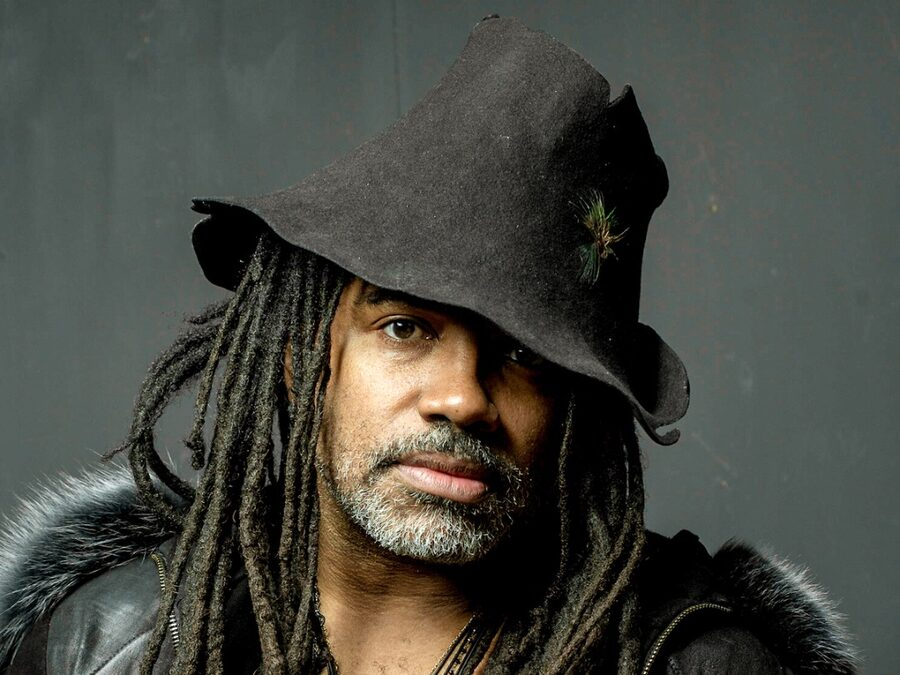
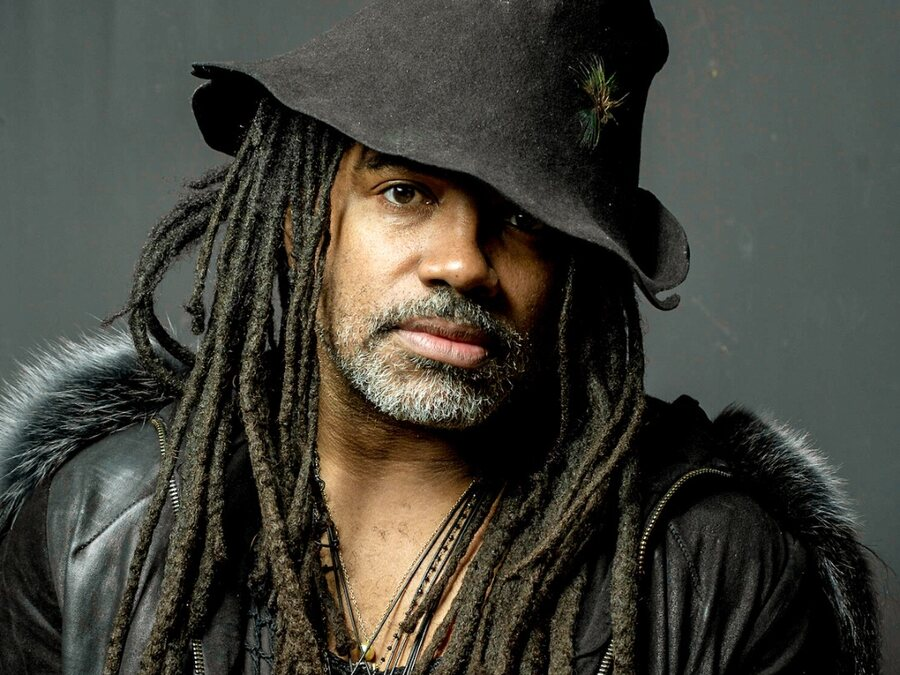
Index: re-cropped portrait cards (Castro NYC, LEE. with new portrait, Saint Fleur with Gardy St. Fleur, LEE. v2 centered)

diff --git a/index.html b/index.html
@@ -91,19 +91,19 @@
       <h2 class="section-title">Strategy</h2>
       <div class="projects">
       <a class="project" href="work/castro-nyc/">
-        <div class="frame"><img src="images/work/castro-nyc/card.jpg" width="900" height="675" loading="lazy" alt="Terry Castro"></div>
+        <div class="frame"><img src="images/work/castro-nyc/card.jpg?v=2" width="900" height="675" loading="lazy" alt="Terry Castro"></div>
         <h2>CASTRO NYC — A LEGACY, REFRAMED</h2>
         <p>Strategy / Positioning / Press</p>
       </a>
 
       <a class="project" href="work/lee/">
-        <div class="frame"><img src="images/work/lee/card.jpg" width="900" height="675" loading="lazy" alt="LEE."></div>
+        <div class="frame"><img src="images/work/lee/card.jpg?v=2" width="900" height="675" loading="lazy" alt="LEE."></div>
         <h2>LEE. — SLOWING DOWN TO BUILD AN IDENTITY</h2>
         <p>Strategy / Artist Development / Music</p>
       </a>
 
       <a class="project" href="work/saint-fleur/">
-        <div class="frame"><img src="images/work/saint-fleur/card.jpg" width="900" height="675" loading="lazy" alt="Saint Fleur"></div>
+        <div class="frame"><img src="images/work/saint-fleur/card.jpg?v=2" width="900" height="675" loading="lazy" alt="Gardy St. Fleur"></div>
         <h2>SAINT FLEUR — SOCIAL MEDIA REVIEW &amp; STRATEGY</h2>
         <p>Strategy / Social Media / Art Advisory</p>
       </a>
@@ -120,7 +120,7 @@
       </a>
 
       <a class="project" href="work/music-by-lee-v2/">
-        <div class="frame"><img src="images/work/music-by-lee-v2/card.jpg" width="900" height="675" loading="lazy" alt="The crowd at Three Times LOUDER"></div>
+        <div class="frame"><img src="images/work/music-by-lee-v2/card.jpg?v=2" width="900" height="675" loading="lazy" alt="The crowd at Three Times LOUDER"></div>
         <h2>MUSIC BY LEE. v2 AT THREE TIMES LOUDER</h2>
         <p>Event Production / Music / New York</p>
       </a>
